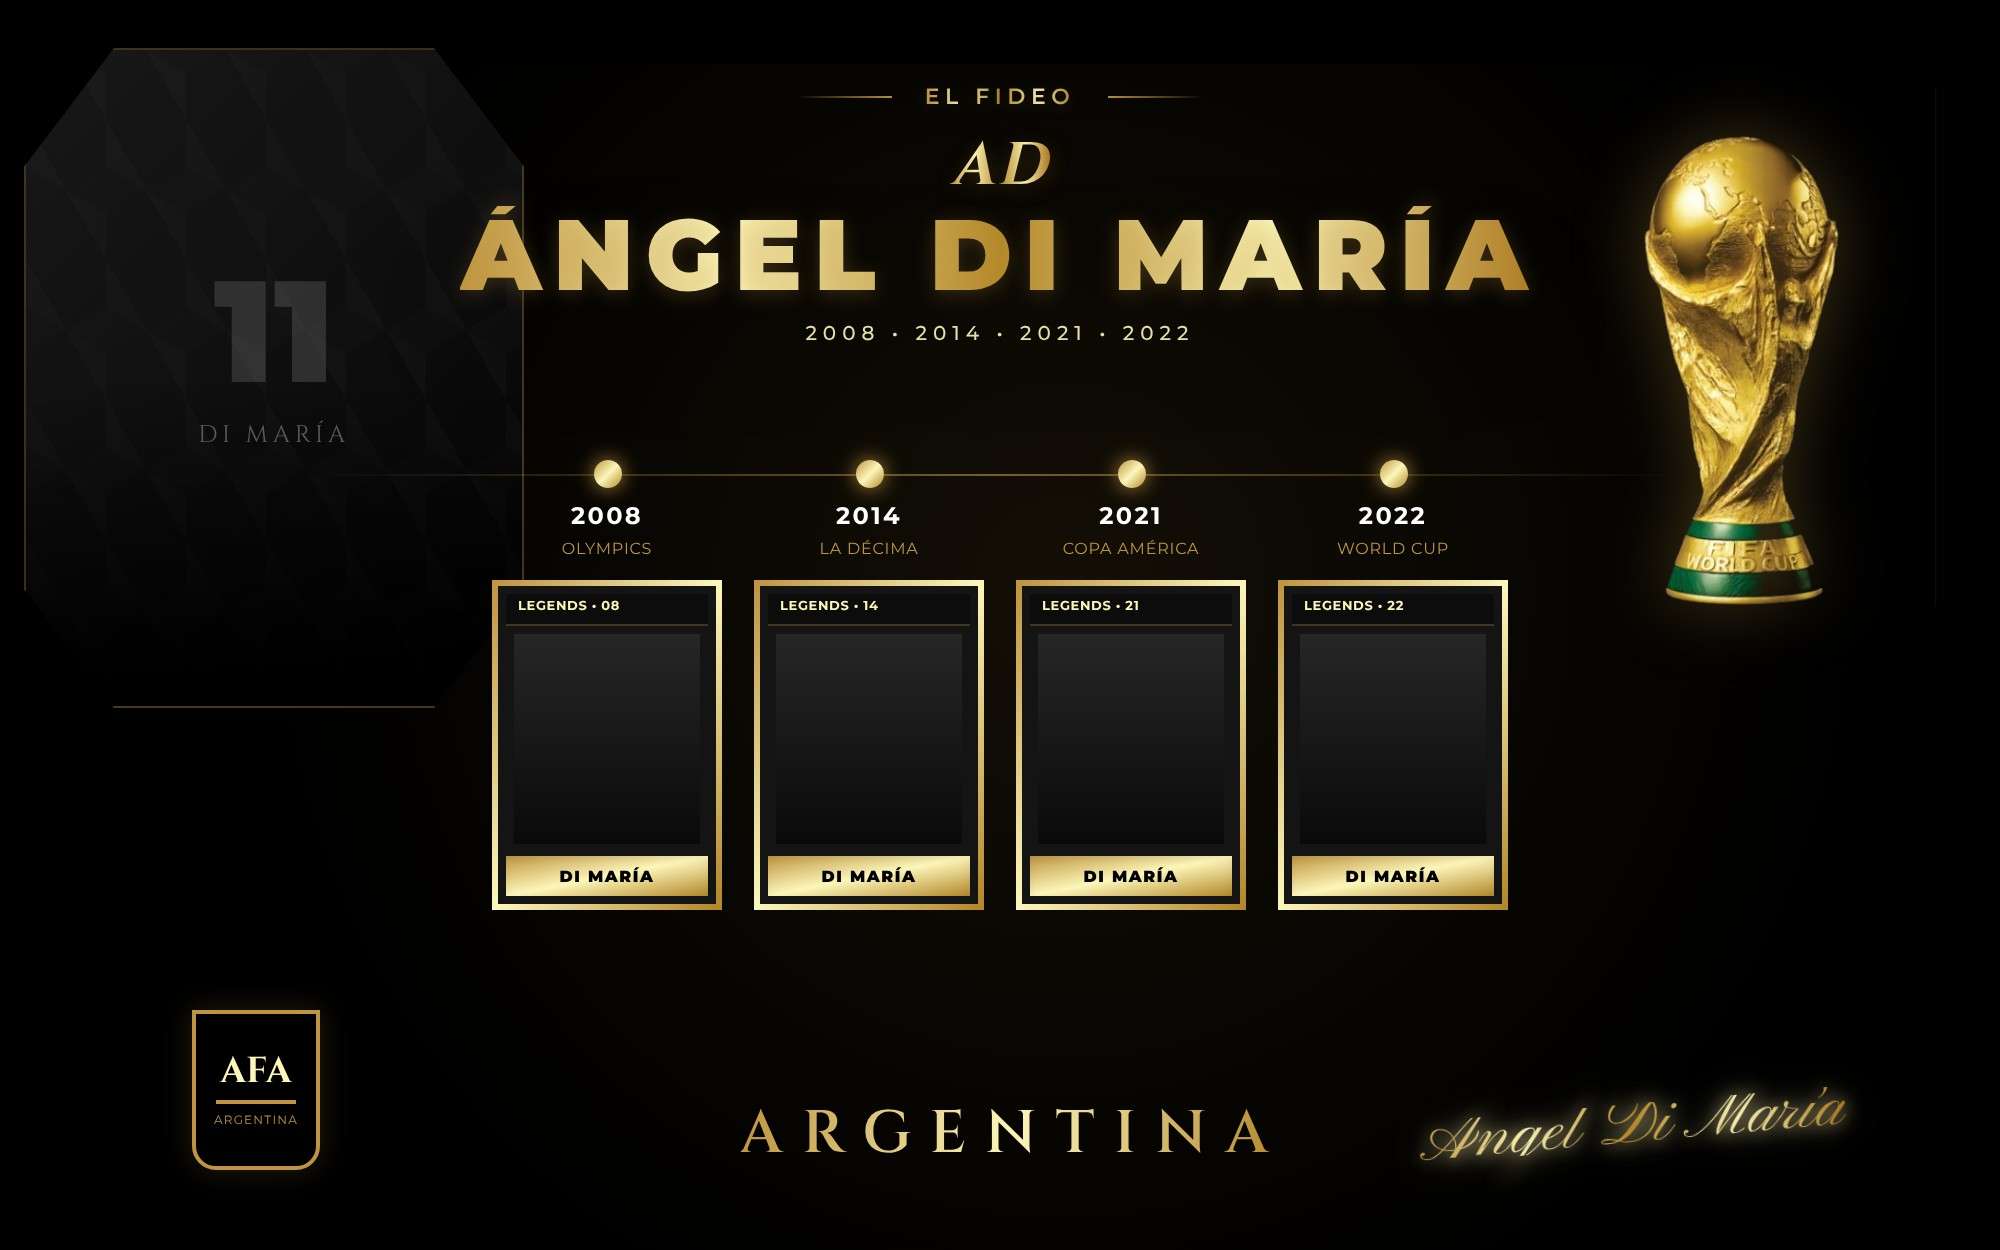
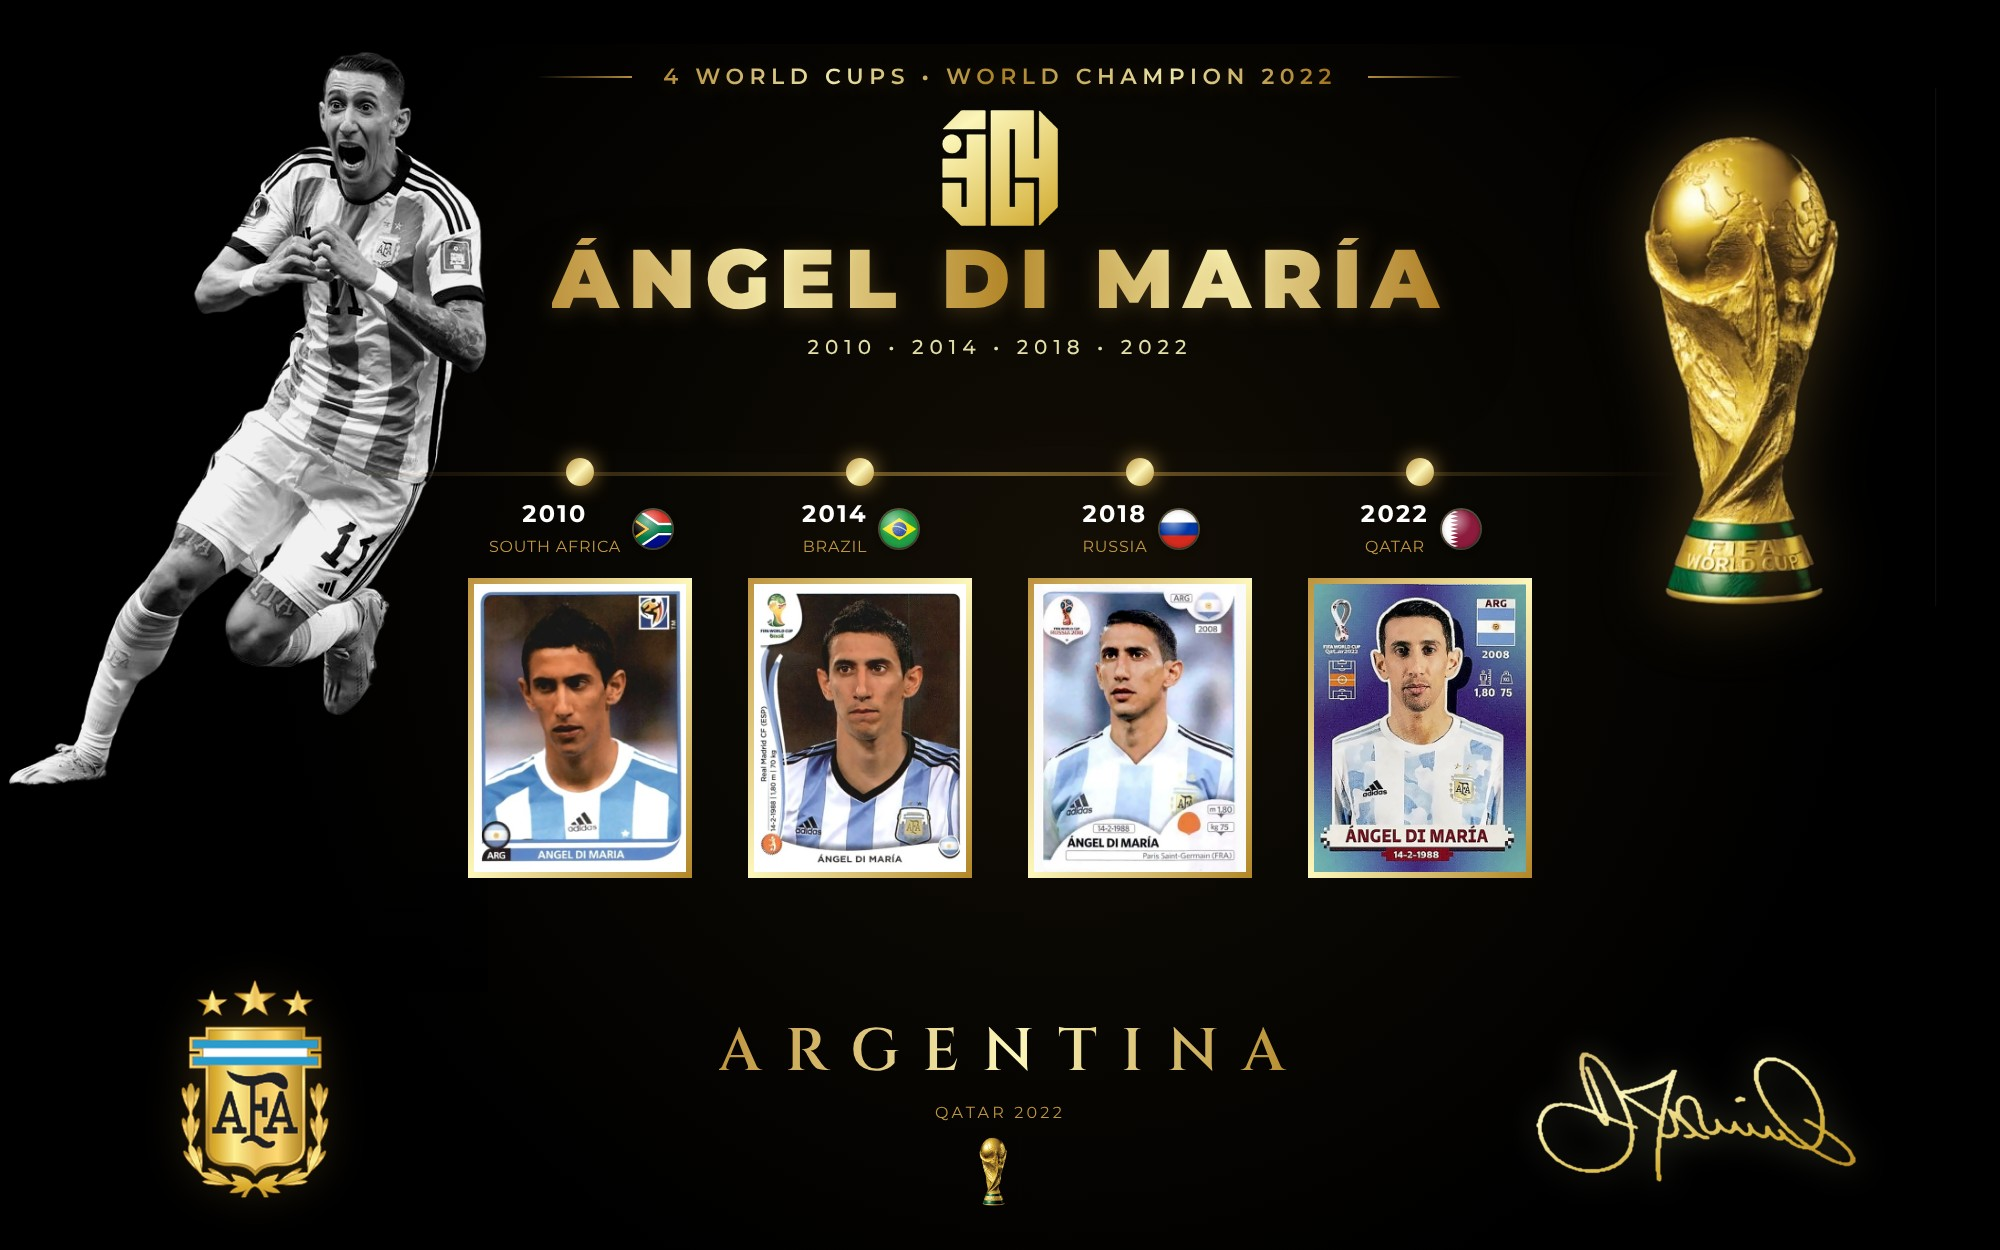
Roberto Carlos and Di María World Cup editions
Roberto Carlos: 1998, 2002, 2006 stickers, CBF crest, RC6 monogram.
Di María: 2010–2022 stickers, AFA crest as on Messi, his logo and signature.

Claude-Session: https://claude.ai/code/session_012KLzXvbSNPDSfqsEgnNbVN

diff --git a/index.html b/index.html
@@ -657,16 +657,16 @@
         ]
       },
       dimaria: {
-        id: 'dimaria', tabName: 'Di María', status: 'coming_soon', journey: 'career', price: 45, compare: 69.99, photos: [], video: '', poster: '', slug: 'dimaria', monogram: 'AD', fullName: "Ángel Di María", nation: 'Argentina',
-        shortTitle: "Ángel Di María Edition", eraSpan: '2008–2022', accentGlow: '#75AADB', artwork: '/uploads/editions/dimaria/artwork.jpg',
-        editionName: "AD — The Career Tribute (2008–2022)",
-        heroHeadline: "Goals in an Olympic, a Copa América and a World Cup Final: <span class=\"text-gold-gradient\">Di María</span>",
-        heroSubheadline: "Four chapters of a legendary career, 2008 to 2022, in one framed shadow box with gold foil accents.", quote: "\"El Fideo.\"", story1Copy: "From the Olympic final in Beijing to scoring in the World Cup final in Qatar, every chapter of Ángel Di María’s career sits in order inside one frame.", signatureText: "Ángel Di María",
+        id: 'dimaria', tabName: "Di María", status: 'active', journey: 'worldcup', price: 45, compare: 69.99, photos: [], video: '', poster: '', slug: 'dimaria', monogram: 'AD', fullName: "Ángel Di María", nation: 'Argentina',
+        shortTitle: "Ángel Di María Edition", eraSpan: '2010–2022', accentGlow: '#75AADB', artwork: '/uploads/editions/dimaria/artwork.jpg',
+        editionName: "AD — The World Cup Journey (2010–2022)",
+        heroHeadline: "From the 2010 Sticker Album to a Goal in the World Cup Final: <span class=\"text-gold-gradient\">Di María</span>",
+        heroSubheadline: "Four World Cups, from South Africa 2010 to Qatar 2022, in one framed shadow box with gold foil accents.", quote: "\"El Fideo.\"", story1Copy: "From his first World Cup in South Africa to the extra-time winner against Switzerland in 2014, a long-range strike against France in 2018 and a goal in the 2022 final, Ángel Di María’s World Cup journey with Argentina sits in order inside one frame.", signatureText: "Ángel Di María",
         cards: [
-          { year: '2008', tournament: "BEIJING 2008", jerseyNo: '#11', kitPrimary: '#1F2937', kitAccent: '#75AADB', badge: "OLYMPIC GOLD", stage: "Gold medal", desc: "Scored the winning goal in the Olympic final.", area: '24.60,46.36,11.50,26.40' },
-          { year: '2014', tournament: "LISBON 2014", jerseyNo: '#11', kitPrimary: '#1F2937', kitAccent: '#75AADB', badge: "LA DÉCIMA", stage: "Champions League", desc: "Named man of the match as Real Madrid won its tenth European Cup.", area: '37.70,46.36,11.50,26.40' },
-          { year: '2021', tournament: "MARACANÃ 2021", jerseyNo: '#11', kitPrimary: '#1F2937', kitAccent: '#75AADB', badge: "COPA AMÉRICA", stage: "Winner", desc: "Scored the only goal of the Copa América final against Brazil.", area: '50.80,46.36,11.50,26.40' },
-          { year: '2022', tournament: "QATAR 2022", jerseyNo: '#11', kitPrimary: '#1F2937', kitAccent: '#75AADB', badge: "WORLD CHAMPION", stage: "World champion", desc: "Scored in the World Cup final as Argentina became champions.", area: '63.90,46.36,11.50,26.40' }
+          { year: '2010', tournament: "SOUTH AFRICA 2010", jerseyNo: "#7", kitPrimary: '#1F2937', kitAccent: '#75AADB', badge: "FIRST WORLD CUP", stage: "Quarter-finals", desc: "Started four of Argentina’s five games in his first World Cup.", image: '/uploads/editions/dimaria/card-2010.jpg', area: '23.40,46.25,11.20,24.00' },
+          { year: '2014', tournament: "BRAZIL 2014", jerseyNo: "#7", kitPrimary: '#1F2937', kitAccent: '#75AADB', badge: "THE 118TH MINUTE", stage: "Runner-up", desc: "Scored the extra-time winner against Switzerland in the round of 16.", image: '/uploads/editions/dimaria/card-2014.jpg', area: '37.40,46.25,11.20,24.00' },
+          { year: '2018', tournament: "RUSSIA 2018", jerseyNo: "#11", kitPrimary: '#1F2937', kitAccent: '#75AADB', badge: "LONG-RANGE STRIKE", stage: "Round of 16", desc: "Scored from long range against France in the round of 16.", image: '/uploads/editions/dimaria/card-2018.jpg', area: '51.40,46.25,11.20,24.00' },
+          { year: '2022', tournament: "QATAR 2022", jerseyNo: "#11", kitPrimary: '#1F2937', kitAccent: '#75AADB', badge: "WORLD CHAMPION", stage: "Winner", desc: "Scored in the final as Argentina became world champions.", image: '/uploads/editions/dimaria/card-2022.jpg', area: '65.40,46.25,11.20,24.00' }
         ]
       },
       benzema: {
@@ -703,6 +703,18 @@
           { year: '2002', tournament: "KOREA/JAPAN 2002", jerseyNo: "#11", kitPrimary: '#15803D', kitAccent: '#D4AF37', badge: "WORLD CHAMPION", stage: "Winner", desc: "Scored the long-range free kick against England on the way to the title.", image: '/uploads/editions/r10/card-2002.jpg', area: '30.40,47.47,11.20,24.00' },
           { year: '2006', tournament: "GERMANY 2006", jerseyNo: "#10", kitPrimary: '#15803D', kitAccent: '#D4AF37', badge: "THE NO. 10", stage: "Quarter-finals", desc: "Wore Brazil’s No. 10 shirt in Germany.", image: '/uploads/editions/r10/card-2006.jpg', area: '44.40,47.47,11.20,24.00' },
           { year: '2010', tournament: "SOUTH AFRICA 2010", jerseyNo: "—", kitPrimary: '#15803D', kitAccent: '#D4AF37', badge: "THE STICKER", stage: "Not selected", desc: "In the 2010 sticker album, but left out of Brazil’s final squad for South Africa.", image: '/uploads/editions/r10/card-2010.jpg', area: '58.40,47.47,11.20,24.00' }
+        ]
+      },
+      rc: {
+        id: 'rc', tabName: "Roberto Carlos", status: 'active', journey: 'worldcup', price: 45, compare: 69.99, photos: [], video: '', poster: '', slug: 'rc', monogram: 'RC6', fullName: "Roberto Carlos", nation: 'Brazil',
+        shortTitle: "Roberto Carlos Edition", eraSpan: '1998–2006', accentGlow: '#15803D', artwork: '/uploads/editions/rc/artwork.jpg',
+        editionName: "RC6 — The World Cup Journey (1998–2006)",
+        heroHeadline: "The Left Foot Behind Brazil’s Fifth Star: <span class=\"text-gold-gradient\">Roberto Carlos</span>",
+        heroSubheadline: "Three World Cups, from France 1998 to Germany 2006, in one framed shadow box with gold foil accents.", quote: "\"The left foot.\"", story1Copy: "From the final in Paris in 1998 to lifting the trophy in Yokohama in 2002 and a third World Cup in Germany, Roberto Carlos’s World Cup journey with Brazil sits in order inside one frame.", signatureText: "Roberto Carlos",
+        cards: [
+          { year: '1998', tournament: "FRANCE 1998", jerseyNo: "#6", kitPrimary: '#15803D', kitAccent: '#D4AF37', badge: "RUNNER-UP", stage: "Runner-up", desc: "Started at left-back as Brazil reached the final in Paris.", image: '/uploads/editions/rc/card-1998.jpg', area: '30.40,44.68,11.20,24.00' },
+          { year: '2002', tournament: "KOREA/JAPAN 2002", jerseyNo: "#6", kitPrimary: '#15803D', kitAccent: '#D4AF37', badge: "WORLD CHAMPION", stage: "Winner", desc: "Scored a free kick against China on the way to Brazil’s fifth title.", image: '/uploads/editions/rc/card-2002.jpg', area: '44.40,44.68,11.20,24.00' },
+          { year: '2006', tournament: "GERMANY 2006", jerseyNo: "#6", kitPrimary: '#15803D', kitAccent: '#D4AF37', badge: "THIRD WORLD CUP", stage: "Quarter-finals", desc: "Played his third and last World Cup, ending in the quarter-finals against France.", image: '/uploads/editions/rc/card-2006.jpg', area: '58.40,44.68,11.20,24.00' }
         ]
       }
     };
